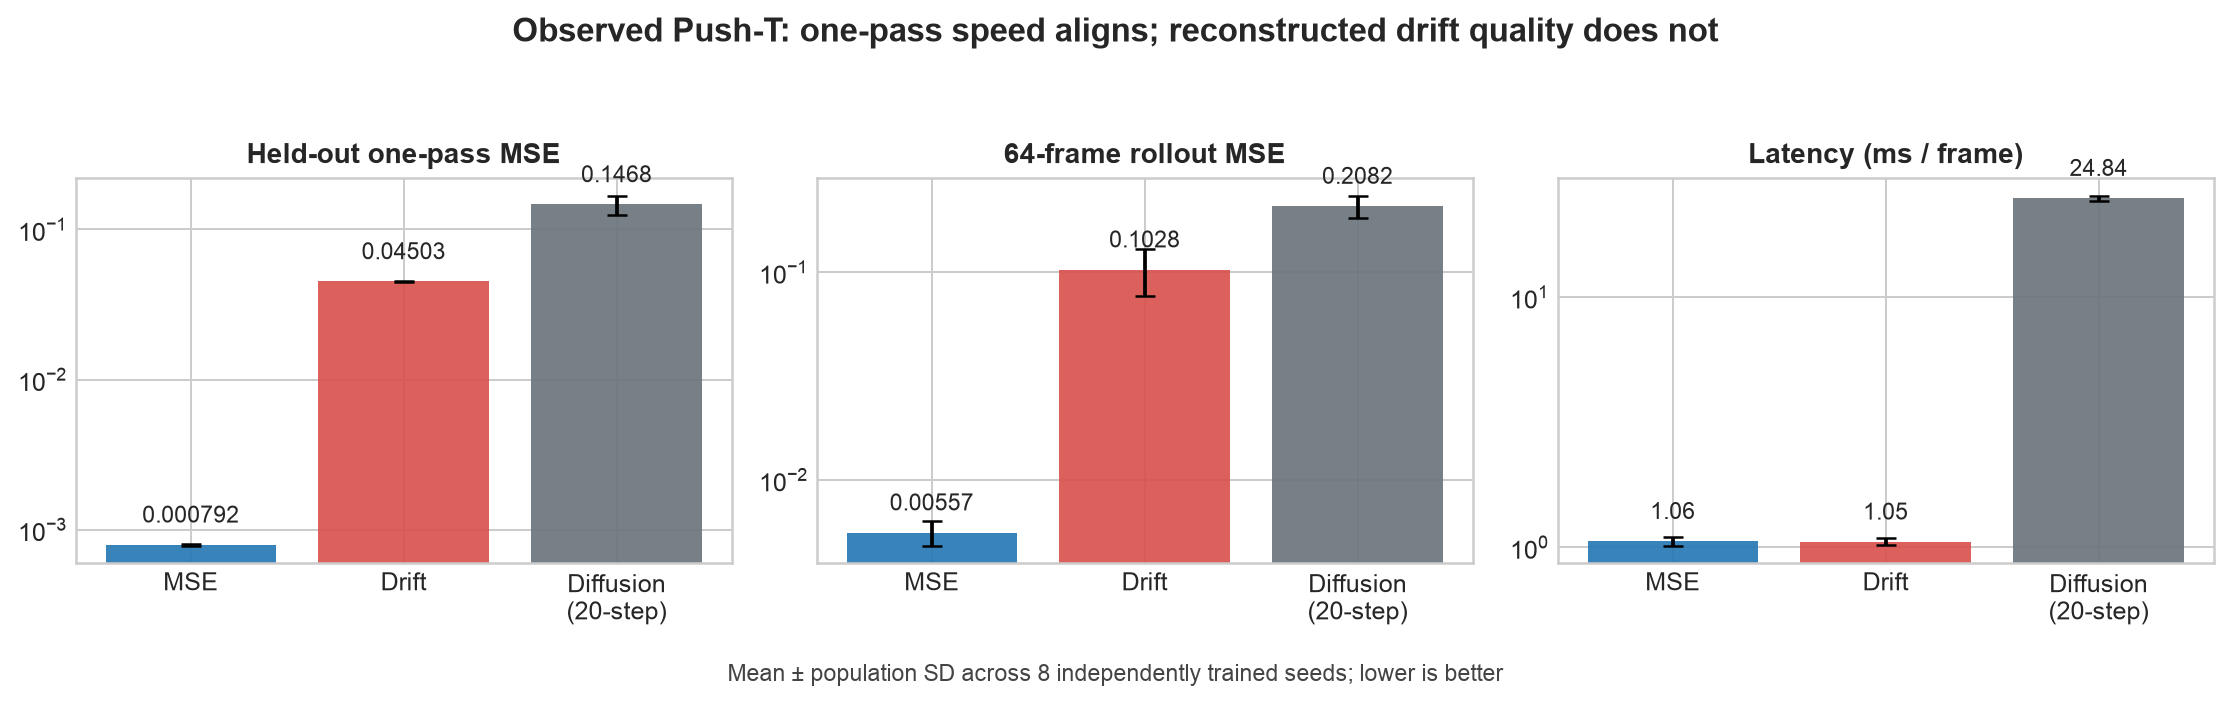
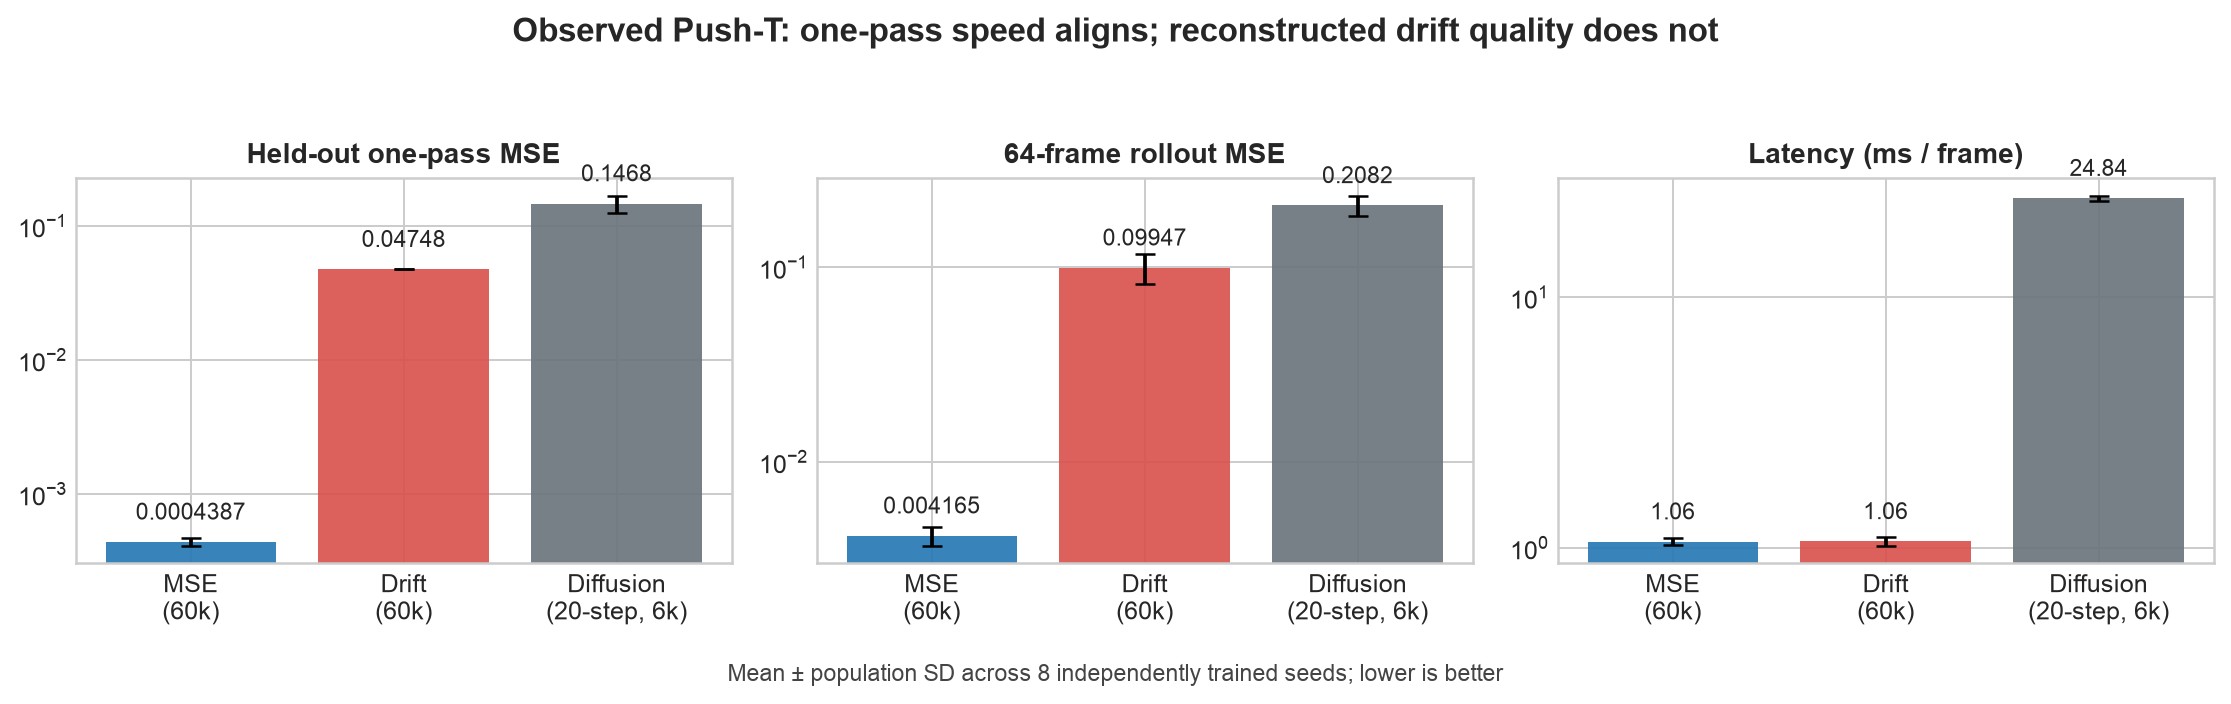
Publish final matched-duration reproduction evidence

diff --git a/notebooks/driftworld_reproduction.py b/notebooks/driftworld_reproduction.py
@@ -33,8 +33,8 @@ def _(mo):
 
     | Model | Held-out MSE ↓ | 64-frame MSE ↓ | Latency ↓ |
     |---|---:|---:|---:|
-    | MSE one-pass | **0.000792** | **0.00557** | 1.058 ms/frame |
-    | Drift one-pass | 0.045031 | 0.10285 | **1.052 ms/frame** |
+    | MSE one-pass, 60k | **0.000439** | **0.00416** | **1.059 ms/frame** |
+    | Drift one-pass, 60k | 0.047480 | 0.09947 | 1.061 ms/frame |
     | Diffusion, 20 steps | 0.14677 | 0.20815 | 24.840 ms/frame |
 
     This notebook contains the already-produced evidence, so opening it in Molab does
@@ -47,16 +47,16 @@ def _(mo):
 def _():
     results = {
         "MSE": {
-            "heldout_mse": (0.0007920305, 0.0000120761),
-            "rollout_mse": (0.0055697905, 0.0007576110),
-            "latency": (1.0578830, 0.0439160),
-            "action_gain": 0.00000546856,
+            "heldout_mse": (0.0004387173, 0.0000290494),
+            "rollout_mse": (0.0041645779, 0.0004705865),
+            "latency": (1.0587472, 0.0325313),
+            "action_gain": 0.0004908421,
         },
         "Drift": {
-            "heldout_mse": (0.0450313585, 0.0002189236),
-            "rollout_mse": (0.1028471915, 0.0258041564),
-            "latency": (1.0520106, 0.0342399),
-            "action_gain": 0.000000717584,
+            "heldout_mse": (0.0474803722, 0.0001417005),
+            "rollout_mse": (0.0994707551, 0.0173170482),
+            "latency": (1.0609791, 0.0424894),
+            "action_gain": 0.00000292808,
         },
         "Diffusion (20-step)": {
             "heldout_mse": (0.1467726175, 0.02136567),
@@ -191,14 +191,17 @@ def _(mo):
     | Full field, 6k | 0.04503 | 0.10285 |
     | Attraction only, 6k | **0.001400** | **0.004318** |
     | Attraction only, 20k | **0.001083** | **0.003926** |
+    | Attraction only, 60k | **0.000780** | **0.004518** |
     | Static-negative only, 6k | 0.01673 | 0.02197 |
     | Peer-negative only, 6k | 0.05128 | 0.12863 |
 
-    Attraction-only improved with added training and beat the 6k direct-MSE
-    control's rollout MSE (0.00557), though not its held-out MSE (0.000792).
-    Both reconstructed repulsive terms
-    independently degraded training. This localizes the mismatch, but it does not
-    test the authors' unavailable source implementation.
+    At 20k, attraction-only beat matched MSE on rollout mean; at 60k, matched MSE
+    had the better means on both held-out (0.000439) and rollout (0.004165), with
+    overlapping rollout seed spreads. Both reconstructed repulsive terms
+    independently degraded training. At 6k, repulsion weights 0, 0.001, 0.01,
+    0.1, 0.5, and 1.0 increased held-out MSE monotonically from 0.001400 to
+    0.045031. This localizes the mismatch, but it does not test the authors'
+    unavailable source implementation.
     """)
     return
 
@@ -209,13 +212,14 @@ def _(mo):
     ## Evidence boundary and compute
 
     The paper reports 8.73M parameters and does not publish the exact Push-T source,
-    split, field constants, or training duration. This reconstruction has 4.80M
-    parameters and 6,000 updates per seed. It omits LPIPS and policy ranking.
+    split, field implementation, or training duration. This reconstruction has 4.80M
+    parameters; the formal MSE/Drift pair used 60,000 updates per seed. It omits LPIPS
+    and policy ranking.
 
     Formal runs used the configured **Kubernetes** backend, **NVIDIA RTX PRO 6000
     Blackwell** GPUs, and a peak of **16 concurrent GPUs**. The detailed public report
-    records the per-run wall times, sensitivity checks, experiment branches, and final
-    campaign elapsed time.
+    records the per-run wall times, sensitivity checks, and experiment branches. The
+    campaign ran for **4.389 elapsed wall hours**.
 
     **Bottom line:** the latency advantage reproduced; the Drift-over-MSE visual-quality
     effect did not appear under this bounded public-data reconstruction.

diff --git a/reports/pusht/make_figure.py b/reports/pusht/make_figure.py
@@ -9,8 +9,8 @@ import numpy as np
 
 ROOT = Path(__file__).parent
 data = json.loads((ROOT / "evidence.json").read_text())["observed"]
-names = ["MSE", "Drift", "Diffusion\n(20-step)"]
-keys = ["mse", "drift", "diffusion"]
+names = ["MSE\n(60k)", "Drift\n(60k)", "Diffusion\n(20-step, 6k)"]
+keys = ["mse_60k", "drift_60k", "diffusion"]
 colors = ["#2878B5", "#D9534F", "#6C757D"]
 
 panels = [

diff --git a/reports/pusht/report.md b/reports/pusht/report.md
@@ -2,7 +2,7 @@
 
 ![Observed quality and latency across eight seeds](images/quality_latency.png)
 
-**Assessment: partially reproduced.** The one-pass speed claim aligned, but the reported quality advantage did not appear in this bounded reconstruction. Across eight independently trained seeds, the matched MSE model reached **0.000792 held-out MSE** and **0.00557 64-frame rollout MSE**. The reconstructed drifting field reached **0.04503** and **0.10285**, respectively. Both one-pass models took about **1.05 ms/frame**, versus **24.84 ms/frame** for a 20-step diffusion timing reference. The Drift model reacted measurably but weakly to actions; true actions improved held-out MSE over shuffled actions by only **7.18×10⁻⁷**.
+**Assessment: partially reproduced.** The one-pass speed claim aligned, but the reported quality advantage did not appear in this bounded reconstruction. In the strongest matched comparison—60,000 updates and eight independently trained seeds per objective—the MSE model reached **0.000439 held-out MSE** and **0.00416 64-frame rollout MSE**. The reconstructed full drifting field reached **0.04748** and **0.09947**, respectively. Both one-pass models took about **1.06 ms/frame**, versus **24.84 ms/frame** for a 20-step diffusion timing reference. The full Drift model reacted measurably but weakly to actions; true actions improved held-out MSE over shuffled actions by only **2.93×10⁻⁶**, versus **4.91×10⁻⁴** for matched MSE.
 
 [![Open in molab](https://marimo.io/molab-shield.svg)](https://molab.marimo.io/github/alphaXiv/driftworld-7f8c73f9/blob/main/notebooks/driftworld_reproduction.py)
 
@@ -35,7 +35,7 @@ loss = mse(pred, (pred + field).detach())
 This implementation preserved the paper's resolution, history/horizon, base width, residual-block count, negative count, temperatures, learning rate, weight decay, warmup, clipping, and EMA decay. Consequential substitutions were unavoidable:
 
 - The reconstructed network has **4.80M parameters**, not the paper's **8.73M**, because layer-by-layer source code was unavailable.
-- Training was bounded to **6,000 updates per seed**, batch 2, rather than the paper's unreported total training duration.
+- The formal MSE/Drift comparison was extended to **60,000 updates per seed**, batch 2; the paper's total training duration is unreported. The diffusion timing reference remained at 6,000 updates.
 - Eight GPUs trained eight independent complete models per objective. Gloo coordinated metric collection only after NCCL communicator creation stalled on this cluster.
 - The public Push-T archive and held-out split may differ from the authors' data version and split.
 - LPIPS and policy-ranking evaluation were omitted. The diffusion model is intentionally a small timing reference and is too undertrained for a quality comparison.
@@ -44,33 +44,33 @@ This implementation preserved the paper's resolution, history/horizon, base widt
 
 All values below are means across eight independently trained seeds; uncertainty is population standard deviation. Every plotted value is stored in [`evidence.json`](evidence.json), transcribed from terminal `FINAL_RESULT_JSON` blocks.
 
-| Model | Held-out MSE ↓ | Held-out SSIM ↑ | 64-frame MSE ↓ | 64-frame SSIM ↑ | Latency ms/frame ↓ |
-|---|---:|---:|---:|---:|---:|
-| MSE one-pass | 0.000792 ± 0.000012 | 0.97372 | 0.00557 ± 0.00076 | 0.88245 | 1.058 ± 0.044 |
-| Drift one-pass | 0.045031 ± 0.000219 | 0.88298 | 0.10285 ± 0.02580 | 0.54635 | 1.052 ± 0.034 |
-| Diffusion, 20 steps | 0.14677 ± 0.02137 | 0.23686 | 0.20815 ± 0.02557 | 0.16884 | 24.840 ± 0.584 |
+| Model | Updates | Held-out MSE ↓ | Held-out SSIM ↑ | 64-frame MSE ↓ | 64-frame SSIM ↑ | Latency ms/frame ↓ |
+|---|---:|---:|---:|---:|---:|---:|
+| MSE one-pass | 60k | 0.000439 ± 0.000029 | 0.98776 | 0.00416 ± 0.00047 | 0.91927 | 1.059 ± 0.033 |
+| Drift one-pass | 60k | 0.047480 ± 0.000142 | 0.92479 | 0.09947 ± 0.01732 | 0.51595 | 1.061 ± 0.042 |
+| Diffusion, 20 steps | 6k | 0.14677 ± 0.02137 | 0.23686 | 0.20815 ± 0.02557 | 0.16884 | 24.840 ± 0.584 |
 
-The paired architecture comparison is decisive under this setup: Drift's held-out MSE was **56.9× higher** than MSE, and its rollout MSE was **18.5× higher**. Eight seeds make this unlikely to be a single unlucky initialization, but they do not resolve uncertainty in the reconstructed field, network details, or training duration.
+The matched 60k architecture comparison is decisive under this setup: Drift's held-out MSE was **108.2× higher** than MSE, and its rollout MSE was **23.9× higher**. Eight seeds make this unlikely to be a single unlucky initialization, but they do not resolve uncertainty in the reconstructed field, network details, or data version.
 
-The speed result is equally clear. MSE and Drift differed by less than 1% in per-frame latency because both generate four frames with one forward pass. The 20-step reference was **23.6× slower than Drift**. Its poor visual scores only show that 6,000 updates are insufficient for this compact diffusion setup; they are not evidence against iterative diffusion quality.
+The speed result is equally clear. MSE and Drift differed by less than 1% in per-frame latency because both generate four frames with one forward pass. The 20-step reference was **23.4× slower than Drift**. Its poor visual scores only show that 6,000 updates are insufficient for this compact diffusion setup; they are not evidence against iterative diffusion quality.
 
 Action dependence was measured two ways:
 
 | Model | Output change under shuffled actions, L1 ↑ | True-action MSE advantage over shuffled ↑ |
 |---|---:|---:|
-| MSE one-pass | 0.001196 | 5.47×10⁻⁶ |
-| Drift one-pass | 0.000992 | 7.18×10⁻⁷ |
+| MSE one-pass, 60k | 0.005815 | 4.91×10⁻⁴ |
+| Drift one-pass, 60k | 0.000467 | 2.93×10⁻⁶ |
 | Diffusion, 20 steps | 0.006095 | 1.14×10⁻⁵ |
 
-The Drift advantage was positive in all eight seeds, so the output is action-conditioned in a measurable sense. Its magnitude is tiny and weaker than the MSE control, so this run does not establish the paper's stronger claim of useful action-conditioned rollouts.
+The Drift advantage was positive in all eight seeds, so the output is action-conditioned in a measurable sense. Its magnitude is tiny and about 168× weaker than the matched MSE control, so the full-objective run does not establish the paper's stronger claim of useful action-conditioned rollouts.
 
 ## Claim-by-claim assessment
 
 | Claim | Paper evidence | Observed evidence | Assessment | Compute |
 |---|---|---|---|---|
-| Drifting improves Push-T prediction over a same-architecture MSE model | 64-frame MSE 0.0035 → 0.0007; SSIM 0.9704 → 0.9925 | Held-out MSE 0.000792 → 0.045031; rollout MSE 0.00557 → 0.10285 | **Did not align under this setup.** The tested reconstruction showed the opposite direction. Missing source details, 4.80M-vs-8.73M parameters, 6,000 updates, and data/split differences limit the inference. | MSE: 8 GPUs, 4m47s job / 170.0s script. Drift: 8 GPUs, 13m03s job / 662.4s script. |
-| One-pass models are substantially faster than iterative diffusion | Paper latency 3.7 ms/frame for one-pass models versus 10.4 ms/frame for GPC | Drift 1.052 and MSE 1.058 ms/frame versus 24.840 ms/frame for 20-step DDIM | **Aligned.** Drift was 23.6× faster than the iterative reference. Absolute timing is hardware- and implementation-specific. | Three 8-GPU jobs; diffusion 4m06s job / 207.7s script. |
-| Drift preserves useful action-conditioned rollouts | Qualitative and policy evidence in the paper | True actions reduced MSE by 7.18×10⁻⁷ over shuffled actions; rollout MSE 0.10285 | **Inconclusive under this setup.** Action dependence was consistent but too small, and policy ranking was not attempted. | Included in the Drift evaluation above. |
+| Drifting improves Push-T prediction over a same-architecture MSE model | 64-frame MSE 0.0035 → 0.0007; SSIM 0.9704 → 0.9925 | At matched 60k: held-out MSE 0.000439 → 0.047480; rollout MSE 0.00416 → 0.09947 | **Did not align under this setup.** The tested reconstruction showed the opposite direction. Missing source details, 4.80M-vs-8.73M parameters, and data/split differences limit the inference. | MSE: 8 GPUs, 1,481.2s script. Drift: 8 GPUs, 6,402.7s script. |
+| One-pass models are substantially faster than iterative diffusion | Paper latency 3.7 ms/frame for one-pass models versus 10.4 ms/frame for GPC | Drift 1.061 and MSE 1.059 ms/frame versus 24.840 ms/frame for 20-step DDIM | **Aligned.** Drift was 23.4× faster than the iterative reference. Absolute timing is hardware- and implementation-specific. | Three 8-GPU runs; diffusion 207.7s script. |
+| Drift preserves useful action-conditioned rollouts | Qualitative and policy evidence in the paper | Full Drift: true actions reduced MSE by 2.93×10⁻⁶; rollout MSE 0.09947. Attraction-only reached 0.00393 at 20k and 0.00452 at 60k. | **Inconclusive under this setup.** The full objective's action dependence was consistent but weak; the diagnostic was competitive, but policy ranking was not attempted. | Included in the Drift evaluations above. |
 
 ## Robustness and evidence boundaries
 
@@ -82,15 +82,18 @@ The paper does not state an explicit multiplier for its fixed-point drift update
 | Scale 0.1, 6k updates | 0.04495 | 0.10346 |
 | Scale 0.01, 6k updates | 0.04484 | 0.10416 |
 | Scale 1.0, 20k updates | 0.04676 | 0.09820 |
+| Scale 1.0, 60k updates | 0.04748 | 0.09947 |
 
-The more revealing test decomposed the reconstructed field. Removing both repulsive terms and retaining attraction alone reduced held-out MSE to **0.001400** and produced **0.004318** rollout MSE—still worse than direct MSE on held-out windows, but better than its 0.00557 rollout result. Extending attraction-only training to 20,000 updates improved those values to **0.001083** and **0.003926**. Adding only the static-frame negative raised held-out MSE to 0.01673 and caused three seeds to collapse to an action-insensitive constant predictor. Adding only peer negatives raised it to 0.05128. Thus the observed discrepancy localizes to the reconstructed repulsion rather than the one-pass integrator or action-FiLM path. Because the authors' exact field implementation is unavailable, this is a diagnostic of our reconstruction, not an ablation of their code.
+The more revealing test decomposed the reconstructed field. Removing both repulsive terms and retaining attraction alone reduced held-out MSE to **0.001400** and produced **0.004318** rollout MSE—still worse than direct MSE on held-out windows, but better than its 0.00557 rollout result. At 20k, attraction-only reached **0.001083 / 0.003926**, beating matched MSE on rollout mean; at 60k it reached **0.000780 / 0.004518**, behind matched MSE's **0.000439 / 0.004165** means with overlapping rollout spreads. Adding only the static-frame negative raised held-out MSE to 0.01673 and caused three seeds to collapse to an action-insensitive constant predictor. Adding only peer negatives raised it to 0.05128. Thus the observed discrepancy localizes to the reconstructed repulsion rather than the one-pass integrator or action-FiLM path. Because the authors' exact field implementation is unavailable, this is a diagnostic of our reconstruction, not an ablation of their code.
+
+Interpolating the repulsive component showed the same pattern. At 6k updates, attraction-only (weight 0) gave 0.001400 held-out / 0.004318 rollout MSE; weights 0.001, 0.01, 0.1, 0.5, and 1.0 gave **0.001599 / 0.007067**, **0.002998 / 0.009707**, **0.012400 / 0.026541**, **0.033762 / 0.070031**, and **0.045031 / 0.102847**, respectively. Degradation was measurable at the smallest nonzero weight and grew monotonically. Extending weight 0.01 to 20k improved it modestly to **0.002656 / 0.008232**, still far behind attraction-only 20k. This sensitivity makes the missing `compute_V` source particularly consequential.
 
 The initial Kubernetes jobs terminated before Python because the injected script was quoted incorrectly. Successor runs fixed the manifest and then replaced stalled NCCL synchronization with Gloo control plus independent models. Those setup attempts produced no metrics and are excluded from every plot and claim assessment.
 
-The formal experiments used the configured **Kubernetes** backend on **NVIDIA RTX PRO 6000 Blackwell** GPUs, with a **peak allocation of 16 concurrent GPUs**. The measured campaign wall time is reported in `autoresearch.json` after the final sensitivity run; individual durations above come directly from OpenResearch status and terminal logs.
+The formal experiments used the configured **Kubernetes** backend on **NVIDIA RTX PRO 6000 Blackwell** GPUs, with a **peak allocation of 16 concurrent GPUs**. The complete campaign ran from 2026-07-20 09:35:13Z to 13:58:34Z: **4.389 elapsed wall hours**. Individual train/eval spans above come directly from terminal logs.
 
 ## What a full reproduction still needs
 
 A stronger test needs the authors' exact layer graph, data normalization and split, drift-field constants, training duration, evaluation sampling protocol, and policy checkpoints. It should match the 8.73M-parameter network, train to convergence, add LPIPS, evaluate the paper's 64-frame protocol exactly, and run Push-T policy ranking. Until those details exist, the quality result should be read narrowly: **this public-data, bounded reconstruction did not show the reported Drift-over-MSE effect; the latency advantage did reproduce.**
 
-Important experiment branches: [MSE control](https://github.com/alphaXiv/driftworld-7f8c73f9/tree/orx/mse-independent-seeds), [primary drifting field](https://github.com/alphaXiv/driftworld-7f8c73f9/tree/orx/drift-independent-seeds), [20-step diffusion reference](https://github.com/alphaXiv/driftworld-7f8c73f9/tree/orx/20-step-diffusion-independent-seeds), [drift scale 0.1](https://github.com/alphaXiv/driftworld-7f8c73f9/tree/orx/drift-step-scale-0-1), and [drift scale 0.01](https://github.com/alphaXiv/driftworld-7f8c73f9/tree/orx/drift-step-scale-0-01).
+Important experiment branches: [MSE 60k](https://github.com/alphaXiv/driftworld-7f8c73f9/tree/orx/mse-60k-updates), [full Drift 60k](https://github.com/alphaXiv/driftworld-7f8c73f9/tree/orx/drift-60k-updates), [attraction-only 60k](https://github.com/alphaXiv/driftworld-7f8c73f9/tree/orx/attraction-only-60k-updates), [repulsion 0.01 at 20k](https://github.com/alphaXiv/driftworld-7f8c73f9/tree/orx/repulsion-0-01-at-20k-updates), and [20-step diffusion reference](https://github.com/alphaXiv/driftworld-7f8c73f9/tree/orx/20-step-diffusion-independent-seeds).

diff --git a/README.md b/README.md
@@ -2,24 +2,25 @@
 
 [![Open in molab](https://marimo.io/molab-shield.svg)](https://molab.marimo.io/github/alphaXiv/driftworld-7f8c73f9/blob/main/notebooks/driftworld_reproduction.py)
 
-We tested the central claim of [*DriftWorld: Fast World Modeling through Drifting* (arXiv:2607.15065)](https://arxiv.org/abs/2607.15065): a pixel-space drifting-field objective should improve Push-T prediction over a same-architecture one-pass MSE model while retaining one-pass speed relative to diffusion. We trained eight independent seeds per objective on the public 206-episode Diffusion Policy Push-T replay, using a reconstructed 4.80M-parameter action-FiLM video U-Net for 6,000 updates.
+We tested the central claim of [*DriftWorld: Fast World Modeling through Drifting* (arXiv:2607.15065)](https://arxiv.org/abs/2607.15065): a pixel-space drifting-field objective should improve Push-T prediction over a same-architecture one-pass MSE model while retaining one-pass speed relative to diffusion. We trained eight independent seeds per objective on the public 206-episode Diffusion Policy Push-T replay, using a reconstructed 4.80M-parameter action-FiLM video U-Net. The formal MSE/Drift pair ran for 60,000 updates; the diffusion timing reference ran for 6,000.
 
-**Assessment: partially reproduced.** The latency result aligned: Drift and MSE took 1.052 and 1.058 ms/frame, versus 24.840 ms/frame for a matched 20-step sampler (23.6× slower than Drift). The quality result reversed under this downscaled reconstruction: on 64-frame rollouts, Drift reached MSE 0.10285 / SSIM 0.54635 versus the MSE control's 0.00557 / 0.88245. The paper reports Drift 0.0007 / 0.9925 versus MSE 0.0035 / 0.9704. The main substitutions are the smaller public replay (206 episodes versus the paper's 500 mixed trajectories), 6,000 updates because the author schedule is unpublished, a 4.80M reconstruction versus the paper's 8.73M U-Net, and a 20-step undertrained diffusion latency reference.
+**Assessment: partially reproduced.** The latency result aligned: Drift and MSE took 1.061 and 1.059 ms/frame, versus 24.840 ms/frame for a matched 20-step sampler (23.4× slower than Drift). The quality result reversed under this reconstruction: at matched 60k updates, Drift reached 64-frame MSE 0.09947 / SSIM 0.51595 versus the MSE control's 0.00416 / 0.91927. The paper reports Drift 0.0007 / 0.9925 versus MSE 0.0035 / 0.9704. The main substitutions are the smaller public replay (206 episodes versus the paper's 500 mixed trajectories), a bounded 60k schedule because the author schedule is unpublished, a 4.80M reconstruction versus the paper's 8.73M U-Net, and a 20-step undertrained diffusion latency reference.
 
-Diagnostic ablations localized the mismatch to the reconstructed repulsion: at 20,000 updates attraction-only reached 0.001083 held-out MSE and 0.003926 rollout MSE, while 6,000-update static-negative-only and peer-negative-only variants degraded to 0.01673 and 0.05128 held-out MSE. This narrows the uncertainty but cannot validate the authors' unavailable source implementation.
+Diagnostic ablations localized the mismatch to the reconstructed repulsion. At matched 60k updates, attraction-only reached 0.000780 held-out MSE and 0.004518 rollout MSE versus MSE's 0.000439 / 0.004165; the dramatic full-field gap disappeared, though MSE retained the better means. At 6k, increasing reconstructed repulsion weights 0, 0.001, 0.01, 0.1, 0.5, and 1.0 worsened held-out MSE monotonically from 0.00140 to 0.04503. This narrows the uncertainty but cannot validate the authors' unavailable source implementation.
 
-Read the [detailed claim-by-claim report](reports/pusht/report.md), inspect the [embedded result data](reports/pusht/results.json), or open the [self-contained tutorial notebook](notebooks/driftworld_reproduction.py). The exact public Molab URL is <https://molab.marimo.io/github/alphaXiv/driftworld-7f8c73f9/blob/main/notebooks/driftworld_reproduction.py>.
+Read the [detailed claim-by-claim report](reports/pusht/report.md), inspect the [aggregate evidence](reports/pusht/evidence.json) and [primary per-seed data](reports/pusht/results.json), or open the [self-contained tutorial notebook](notebooks/driftworld_reproduction.py). The exact public Molab URL is <https://molab.marimo.io/github/alphaXiv/driftworld-7f8c73f9/blob/main/notebooks/driftworld_reproduction.py>.
 
-Compute: Kubernetes, NVIDIA RTX PRO 6000 Blackwell Server Edition, peak 16 concurrent GPUs. The complete compute campaign ran from 2026-07-20 09:35:13Z to 10:07:39Z (0.541 elapsed wall hours); successful per-model train/eval spans were 170.0 s (MSE), 662.4 s (Drift), and 207.7 s (diffusion).
+Compute: Kubernetes, NVIDIA RTX PRO 6000 Blackwell Server Edition, peak 16 concurrent GPUs. The complete compute campaign ran from 2026-07-20 09:35:13Z to 13:58:34Z (**4.389 elapsed wall hours**); successful headline train/eval spans were 1,481.2 s (MSE 60k), 6,402.7 s (Drift 60k), and 207.7 s (diffusion timing reference).
 
 ## Experiment log
 
 | Branch / experiment | Purpose or change | Exact run command | Assessment / outcome | Compute |
 |---|---|---|---|---|
 | `main` | Polished publication surface | Not run as an experiment (publication surface) | Report, notebook, figures, and implementation | — |
-| [MSE independent seeds](https://github.com/alphaXiv/driftworld-7f8c73f9/tree/orx/mse-independent-seeds) | Same U-Net, direct pixel MSE; eight seeds | `bash run.sh` | Control: 64-frame MSE 0.00557, SSIM 0.88245; 1.058 ms/frame | Kubernetes; 8× RTX PRO 6000 Blackwell; 170.0 s train/eval |
-| [Drift independent seeds](https://github.com/alphaXiv/driftworld-7f8c73f9/tree/orx/drift-independent-seeds) | Normalized pixel drifting, 8 negatives, three temperatures; eight seeds | `bash run.sh` | Quality gain not seen in this setup: MSE 0.10285, SSIM 0.54635; 1.052 ms/frame | Kubernetes; 8× RTX PRO 6000 Blackwell; 662.4 s train/eval |
-| [Attraction-only, 20k updates](https://github.com/alphaXiv/driftworld-7f8c73f9/tree/orx/attraction-only-20k-updates) | Remove both reconstructed repulsive terms and extend training; eight seeds | `bash run.sh` | Held-out MSE 0.001083; rollout MSE 0.003926, isolating the repulsion mismatch | Kubernetes; 8× RTX PRO 6000 Blackwell; 2,151.1 s train/eval |
+| [MSE, 60k updates](https://github.com/alphaXiv/driftworld-7f8c73f9/tree/orx/mse-60k-updates) | Same U-Net, direct pixel MSE; eight seeds | `bash run.sh` | Control: 64-frame MSE 0.00416, SSIM 0.91927; 1.059 ms/frame | Kubernetes; 8× RTX PRO 6000 Blackwell; 1,481.2 s train/eval |
+| [Drift, 60k updates](https://github.com/alphaXiv/driftworld-7f8c73f9/tree/orx/drift-60k-updates) | Normalized pixel drifting, 8 negatives, three temperatures; eight seeds | `bash run.sh` | Quality gain not seen: 64-frame MSE 0.09947, SSIM 0.51595; 1.061 ms/frame | Kubernetes; 8× RTX PRO 6000 Blackwell; 6,402.7 s train/eval |
+| [Attraction-only, 60k updates](https://github.com/alphaXiv/driftworld-7f8c73f9/tree/orx/attraction-only-60k-updates) | Remove both reconstructed repulsive terms at the matched schedule; eight seeds | `bash run.sh` | Held-out MSE 0.000780; rollout MSE 0.004518, close to but behind matched MSE means | Kubernetes; 8× RTX PRO 6000 Blackwell; 6,402.4 s train/eval |
+| Repulsion interpolation: [0.001](https://github.com/alphaXiv/driftworld-7f8c73f9/tree/orx/drift-repulsion-weight-0-001), [0.01](https://github.com/alphaXiv/driftworld-7f8c73f9/tree/orx/drift-repulsion-weight-0-01), [0.1](https://github.com/alphaXiv/driftworld-7f8c73f9/tree/orx/drift-repulsion-weight-0-1), [0.5](https://github.com/alphaXiv/driftworld-7f8c73f9/tree/orx/drift-repulsion-weight-0-5) | Vary only repulsion coefficient at 6k; eight seeds each | `bash run.sh` | Held-out MSE rises monotonically: 0.00160, 0.00300, 0.01240, 0.03376 | Kubernetes; 8× RTX PRO 6000 Blackwell per run; ~662 s train/eval each |
 | [20-step diffusion independent seeds](https://github.com/alphaXiv/driftworld-7f8c73f9/tree/orx/20-step-diffusion-independent-seeds) | Matched cosine diffusion and 20-step DDIM; eight seeds | `bash run.sh` | Latency reference: 24.840 ms/frame; quality undertrained | Kubernetes; 8× RTX PRO 6000 Blackwell; 207.7 s train/eval |
 
 ---